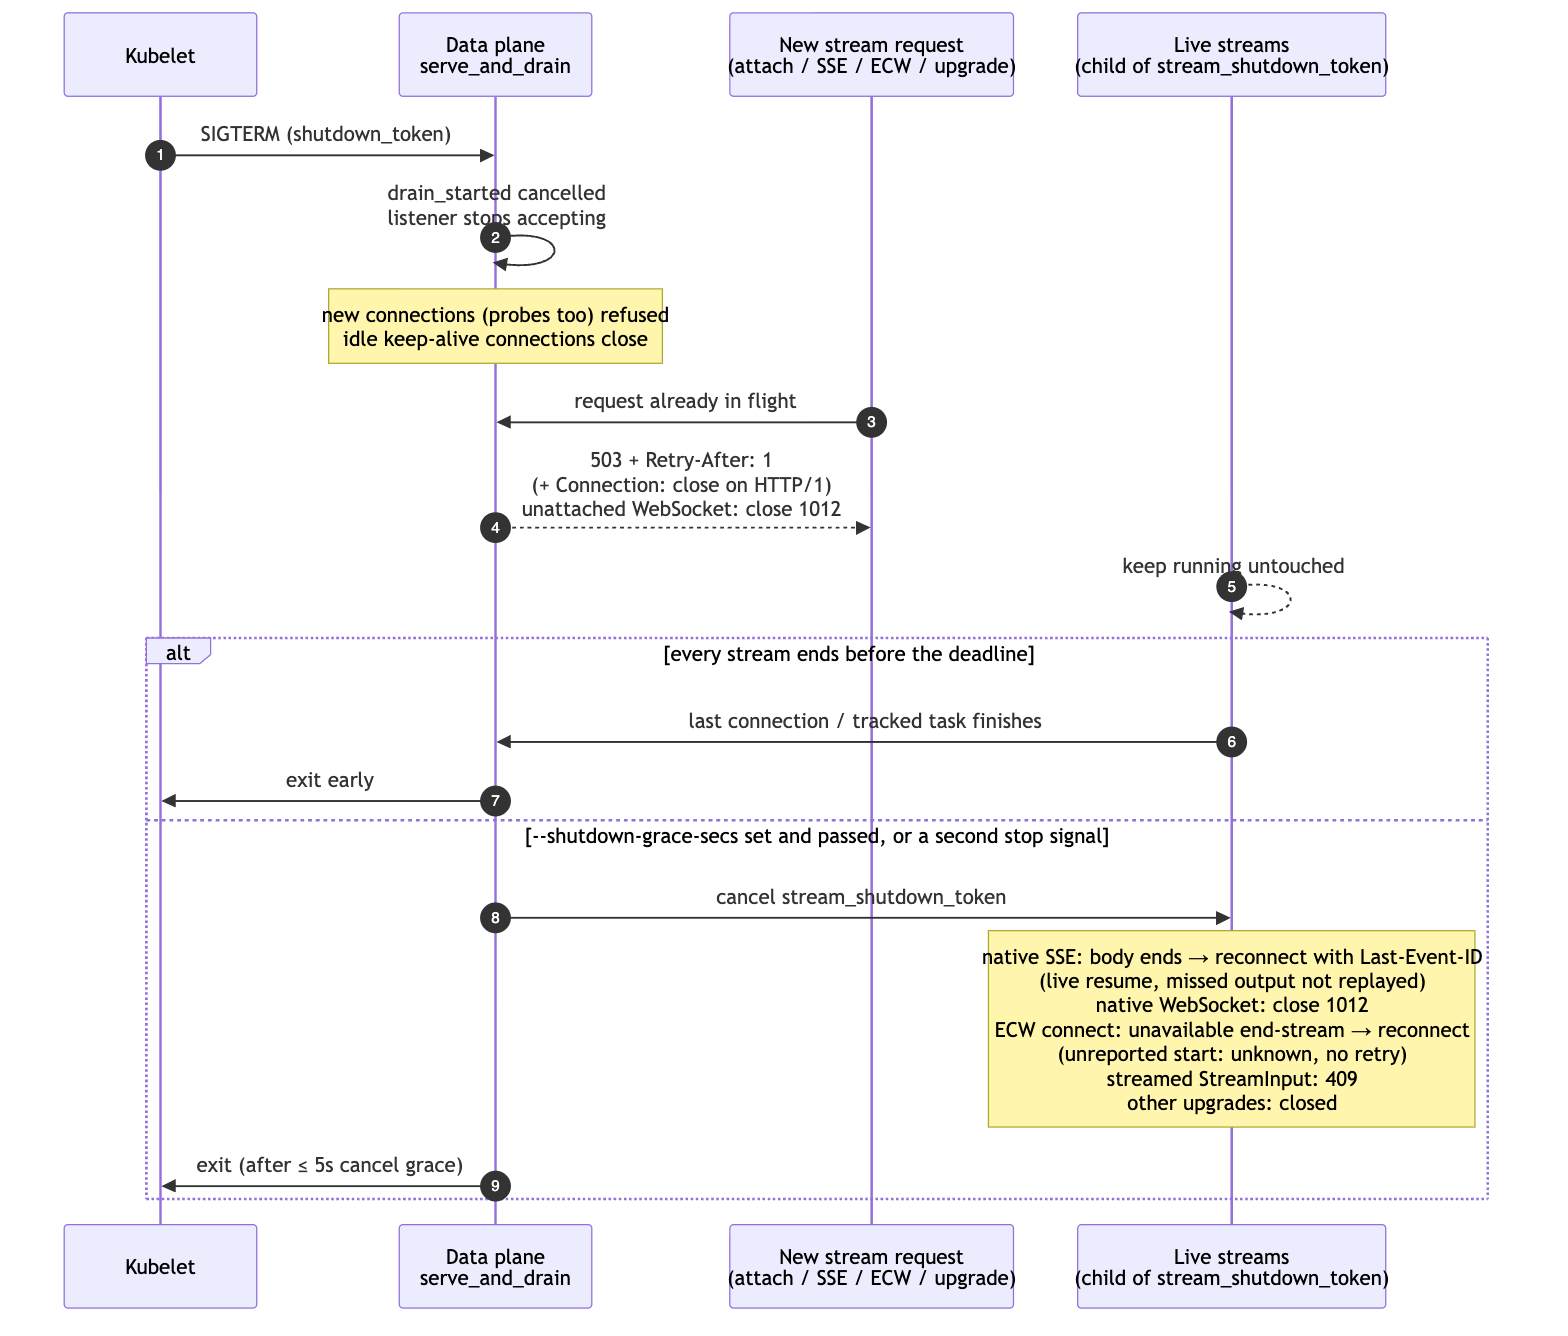
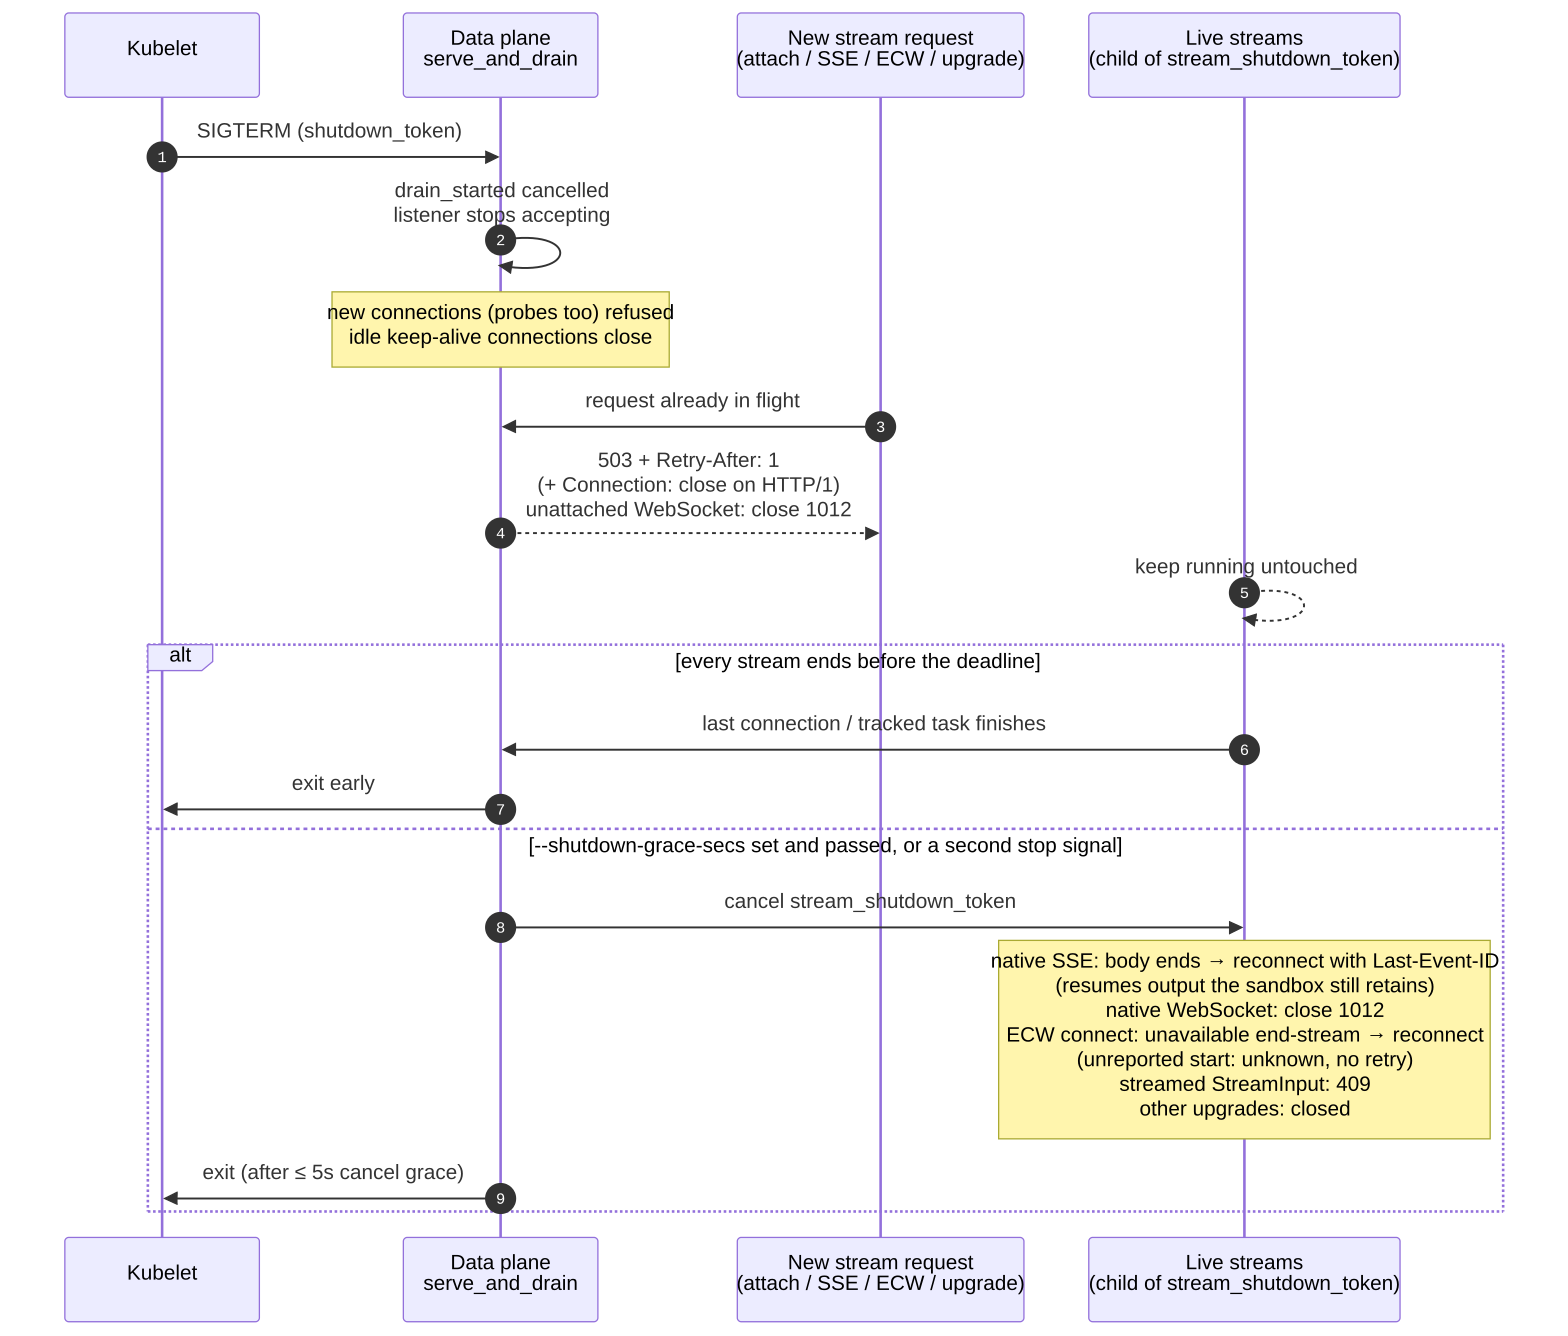
docs: describe process SSE resume from retained output
The events_url schema text, the drain diagram and the API catalog still
said streams do not replay missed output. The OpenAPI text now says a
stream without Last-Event-ID starts at the beginning of the output, that
evicted output is followed by the oldest output still retained, that ids
stay below 2^53, and that an id is only valid for the session that sent
it. The schema example uses ids in the current layout.

diff --git a/crates/libs/api/src/routes/public_docs.rs b/crates/libs/api/src/routes/public_docs.rs
@@ -71,7 +71,7 @@ fn public_openapi_value() -> Value {
     let data_plane_events_item = json!({
         "get": {
             "summary": "Stream process output or file-watch events over SSE",
-            "description": "Streams output from process or file-watch sessions.\n\n### Connect\n\n- Use the session token, not your management API token. Send it in `Authorization: Bearer ...` or `Sec-WebSocket-Protocol`; query-string tokens are rejected.\n- Every frame after `attached` has an increasing SSE `id`. Treat it as an opaque string and echo it exactly: process stream ids are not consecutive and exceed the integers a double represents exactly.\n\n### Reconnect\n\n- Send the last received `id` as `Last-Event-ID`.\n- A process stream resumes with the output after that frame while the sandbox retains it, a bounded amount per process. Without `Last-Event-ID` it starts from the oldest retained output, which can repeat output already received.\n- When the output to resume from is no longer retained, or `Last-Event-ID` is past the process's output, the stream sends `resync_required` with reason `cursor_out_of_window`, then continues with live output, or replays the output from its start. Keep output already received.\n- An `id` that does not resume exactly (one from an earlier SPACE version, one sent after `cursor_out_of_window`, or one altered in transit) replays the retained output behind `resync_required` with reason `cursor_replay_unavailable`.\n- Every `id` a resumed process stream sends is above `Last-Event-ID`.\n- If the process exited while disconnected, reconnecting still reports `process_exited`.\n- A file-watch stream resumes live: its first identified frame is `resync_required`, with reason `cursor_replay_unavailable` and id `Last-Event-ID + 1`. Re-list the watched path before using new events.",
+            "description": "Streams output from process or file-watch sessions.\n\n### Connect\n\n- Use the session token, not your management API token. Send it in `Authorization: Bearer ...` or `Sec-WebSocket-Protocol`; query-string tokens are rejected.\n- Every frame after `attached` has an increasing SSE `id`. Echo it exactly as received: process stream ids are not consecutive. They stay below 2^53, so a JavaScript `Number` holds them exactly.\n\n### Reconnect\n\n- Send the last received `id` as `Last-Event-ID`. An `id` is only valid for the session whose stream sent it.\n- A process stream resumes with the output after that frame while the sandbox retains it, a bounded amount per process. Without `Last-Event-ID` it starts from the beginning of the output, which can repeat output already received.\n- When the output to resume from is no longer retained, the stream sends `resync_required` with reason `cursor_out_of_window`, then continues with the oldest output still retained (with live output on sandboxes from older templates). When `Last-Event-ID` is past the process's output, it sends the same frame and replays the output from its start. Keep output already received.\n- An `id` that does not resume exactly (one from an earlier SPACE version, one sent after `cursor_out_of_window`, or one altered in transit) replays the retained output behind `resync_required` with reason `cursor_replay_unavailable`.\n- Every `id` a resumed process stream sends is above `Last-Event-ID`.\n- If the process exited while disconnected, reconnecting still reports `process_exited`.\n- A file-watch stream resumes live: its first identified frame is `resync_required`, with reason `cursor_replay_unavailable` and id `Last-Event-ID + 1`. Re-list the watched path before using new events.",
             "responses": {
                 "200": { "description": "Server-sent event stream using DataPlaneServerFrame JSON payloads" },
                 "401": { "description": "Invalid or expired data-plane token" },

diff --git a/crates/libs/api/src/routes/public_docs/schema_contract.rs b/crates/libs/api/src/routes/public_docs/schema_contract.rs
@@ -88,7 +88,7 @@ fn openapi_identifier(value: &str) -> String {
 
 pub(super) fn insert_command_event_stream_schema(spec: &mut Value) {
     let response = json!({
-        "description": "### Read the stream\n\n- Each SSE event carries one `DataPlaneServerFrame` JSON object. Ignore comment heartbeats.\n- Decode stdout and stderr's `data_base64` using standard base64.\n- Success requires `process_exited` with exit code zero and no error or missing output. HTTP 200 or a closed stream alone is not success.\n\n### Example output\n\nExcerpt, not a complete stream:\n\n```text\nid: 4611686018695823360\nevent: stdout\ndata: {\"type\":\"stdout\",\"seq\":1,\"data_base64\":\"SGVsbG8gZnJvbSBTUEFDRQo=\"}\n\nid: 4611686018695888896\nevent: process_exited\ndata: {\"type\":\"process_exited\",\"process_id\":\"proc_00000000-0000-0000-0000-000000000000\",\"exit_code\":0,\"status\":\"exited\"}\n\n```",
+        "description": "### Read the stream\n\n- Each SSE event carries one `DataPlaneServerFrame` JSON object. Ignore comment heartbeats.\n- Decode stdout and stderr's `data_base64` using standard base64.\n- Success requires `process_exited` with exit code zero and no error or missing output. HTTP 200 or a closed stream alone is not success.\n\n### Example output\n\nExcerpt, not a complete stream:\n\n```text\nid: 4503599644147712\nevent: stdout\ndata: {\"type\":\"stdout\",\"seq\":1,\"data_base64\":\"SGVsbG8gZnJvbSBTUEFDRQo=\"}\n\nid: 4503599644213248\nevent: process_exited\ndata: {\"type\":\"process_exited\",\"process_id\":\"proc_00000000-0000-0000-0000-000000000000\",\"exit_code\":0,\"status\":\"exited\"}\n\n```",
         "content": {
             "text/event-stream": {
                 "schema": { "type": "string" },
@@ -117,7 +117,7 @@ pub(super) fn insert_command_event_stream_schema(spec: &mut Value) {
             "name": "Last-Event-ID",
             "in": "header",
             "required": false,
-            "description": "SSE `id` of the last frame received.\n\n- Echo the `id` exactly; do not parse it into a floating-point number.\n- A process stream resumes with the output after that frame while it is retained; otherwise `resync_required` precedes the output it continues with: `cursor_out_of_window` when the output is evicted or the `id` is past it, `cursor_replay_unavailable` when the `id` does not resume exactly.\n- A file-watch stream resumes live; its first identified frame is `resync_required` (`cursor_replay_unavailable`), with id `Last-Event-ID + 1`.\n- Values above the `int64` maximum, and process stream values too high to number a later frame above, return 400.",
+            "description": "SSE `id` of the last frame received.\n\n- Echo the `id` exactly as received, on the same session's stream.\n- A process stream resumes with the output after that frame while it is retained; otherwise `resync_required` precedes the output it continues with: `cursor_out_of_window` when the output is evicted or the `id` is past it, `cursor_replay_unavailable` when the `id` does not resume exactly.\n- A file-watch stream resumes live; its first identified frame is `resync_required` (`cursor_replay_unavailable`), with id `Last-Event-ID + 1`.\n- Values above the `int64` maximum, and process stream values too high to number a later frame above, return 400.",
             "schema": {
                 "type": "integer",
                 "format": "int64",

diff --git a/crates/libs/public/api/src/lib.rs b/crates/libs/public/api/src/lib.rs
@@ -1877,7 +1877,9 @@ pub struct DataPlaneAttachInfo {
     /// and validate the destination before sending credentials.
     pub url: String,
     /// HTTP SSE endpoint for this session, when supported. Attaching a command
-    /// starts execution; streams are live and do not replay missed output.
+    /// starts execution. Reconnecting with `Last-Event-ID` resumes with the
+    /// output after that event while the sandbox retains it, a bounded amount
+    /// per process; otherwise the stream sends `resync_required` first.
     pub events_url: Option<String>,
     /// Session-scoped credential, not a management API token. Keep it secret
     /// and send it only to the verified attachment destination.
